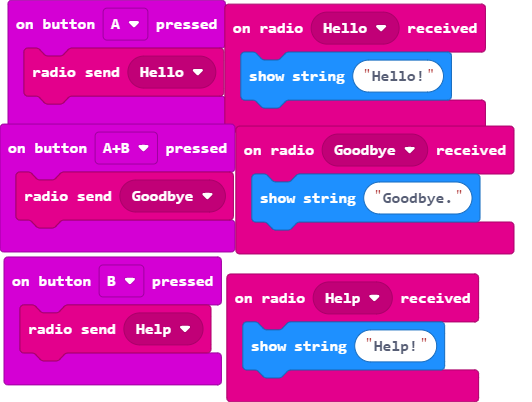
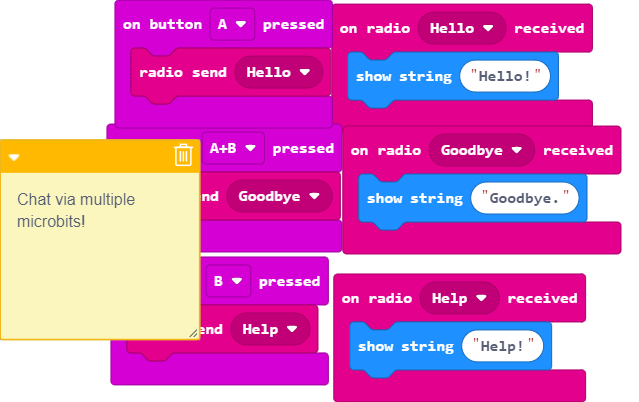
Update main.blocks, main.ts

diff --git a/main.ts b/main.ts
@@ -16,6 +16,9 @@ radio.onReceivedMessage(RadioMessage.Help, function () {
 input.onButtonPressed(Button.AB, function () {
     radio.sendMessage(RadioMessage.Goodbye)
 })
+/**
+ * Chat via multiple microbits!
+ */
 input.onButtonPressed(Button.B, function () {
     radio.sendMessage(RadioMessage.Help)
 })
